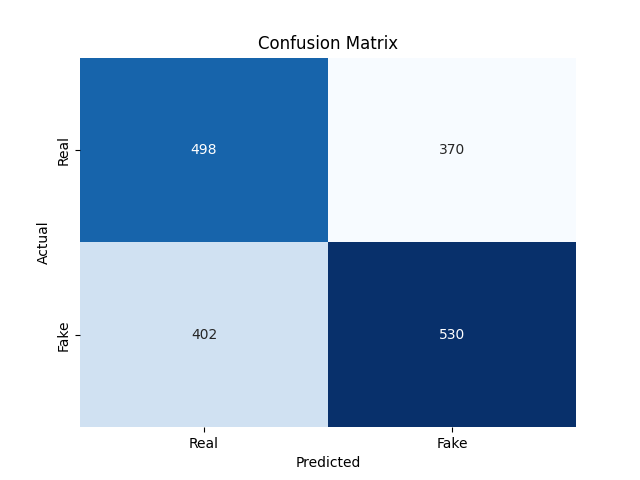
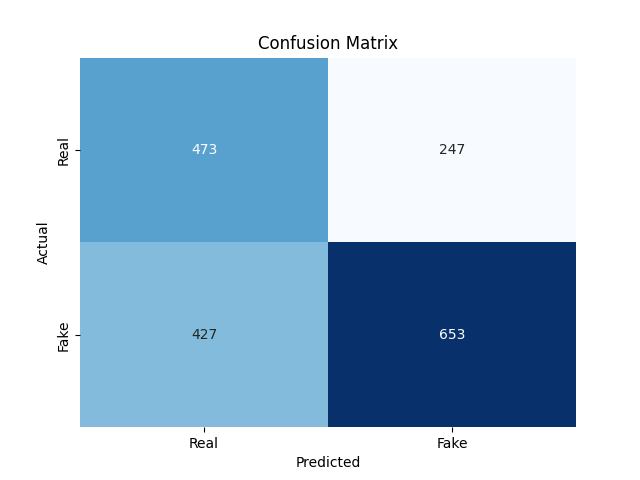
Enable plot generation and update result images
Uncommented calls to get_train_plots() and get_confusion_matrices() in get_result_plots.py to generate updated plots. Updated confusion matrix and test comparison images to reflect new results.

Changed region(s): [[0.125, 0.0938, 0.5312, 0.9062], [0.6875, 0.6875, 0.75, 0.7188], [0.6875, 0.2812, 0.7188, 0.3438]]

diff --git a/utils/get_result_plots.py b/utils/get_result_plots.py
@@ -142,6 +142,6 @@ def get_test_plots():
 
 
 if __name__ == "__main__":
-    #get_train_plots()
-    #get_confusion_matrices()
+    get_train_plots()
+    get_confusion_matrices()
     get_test_plots()
